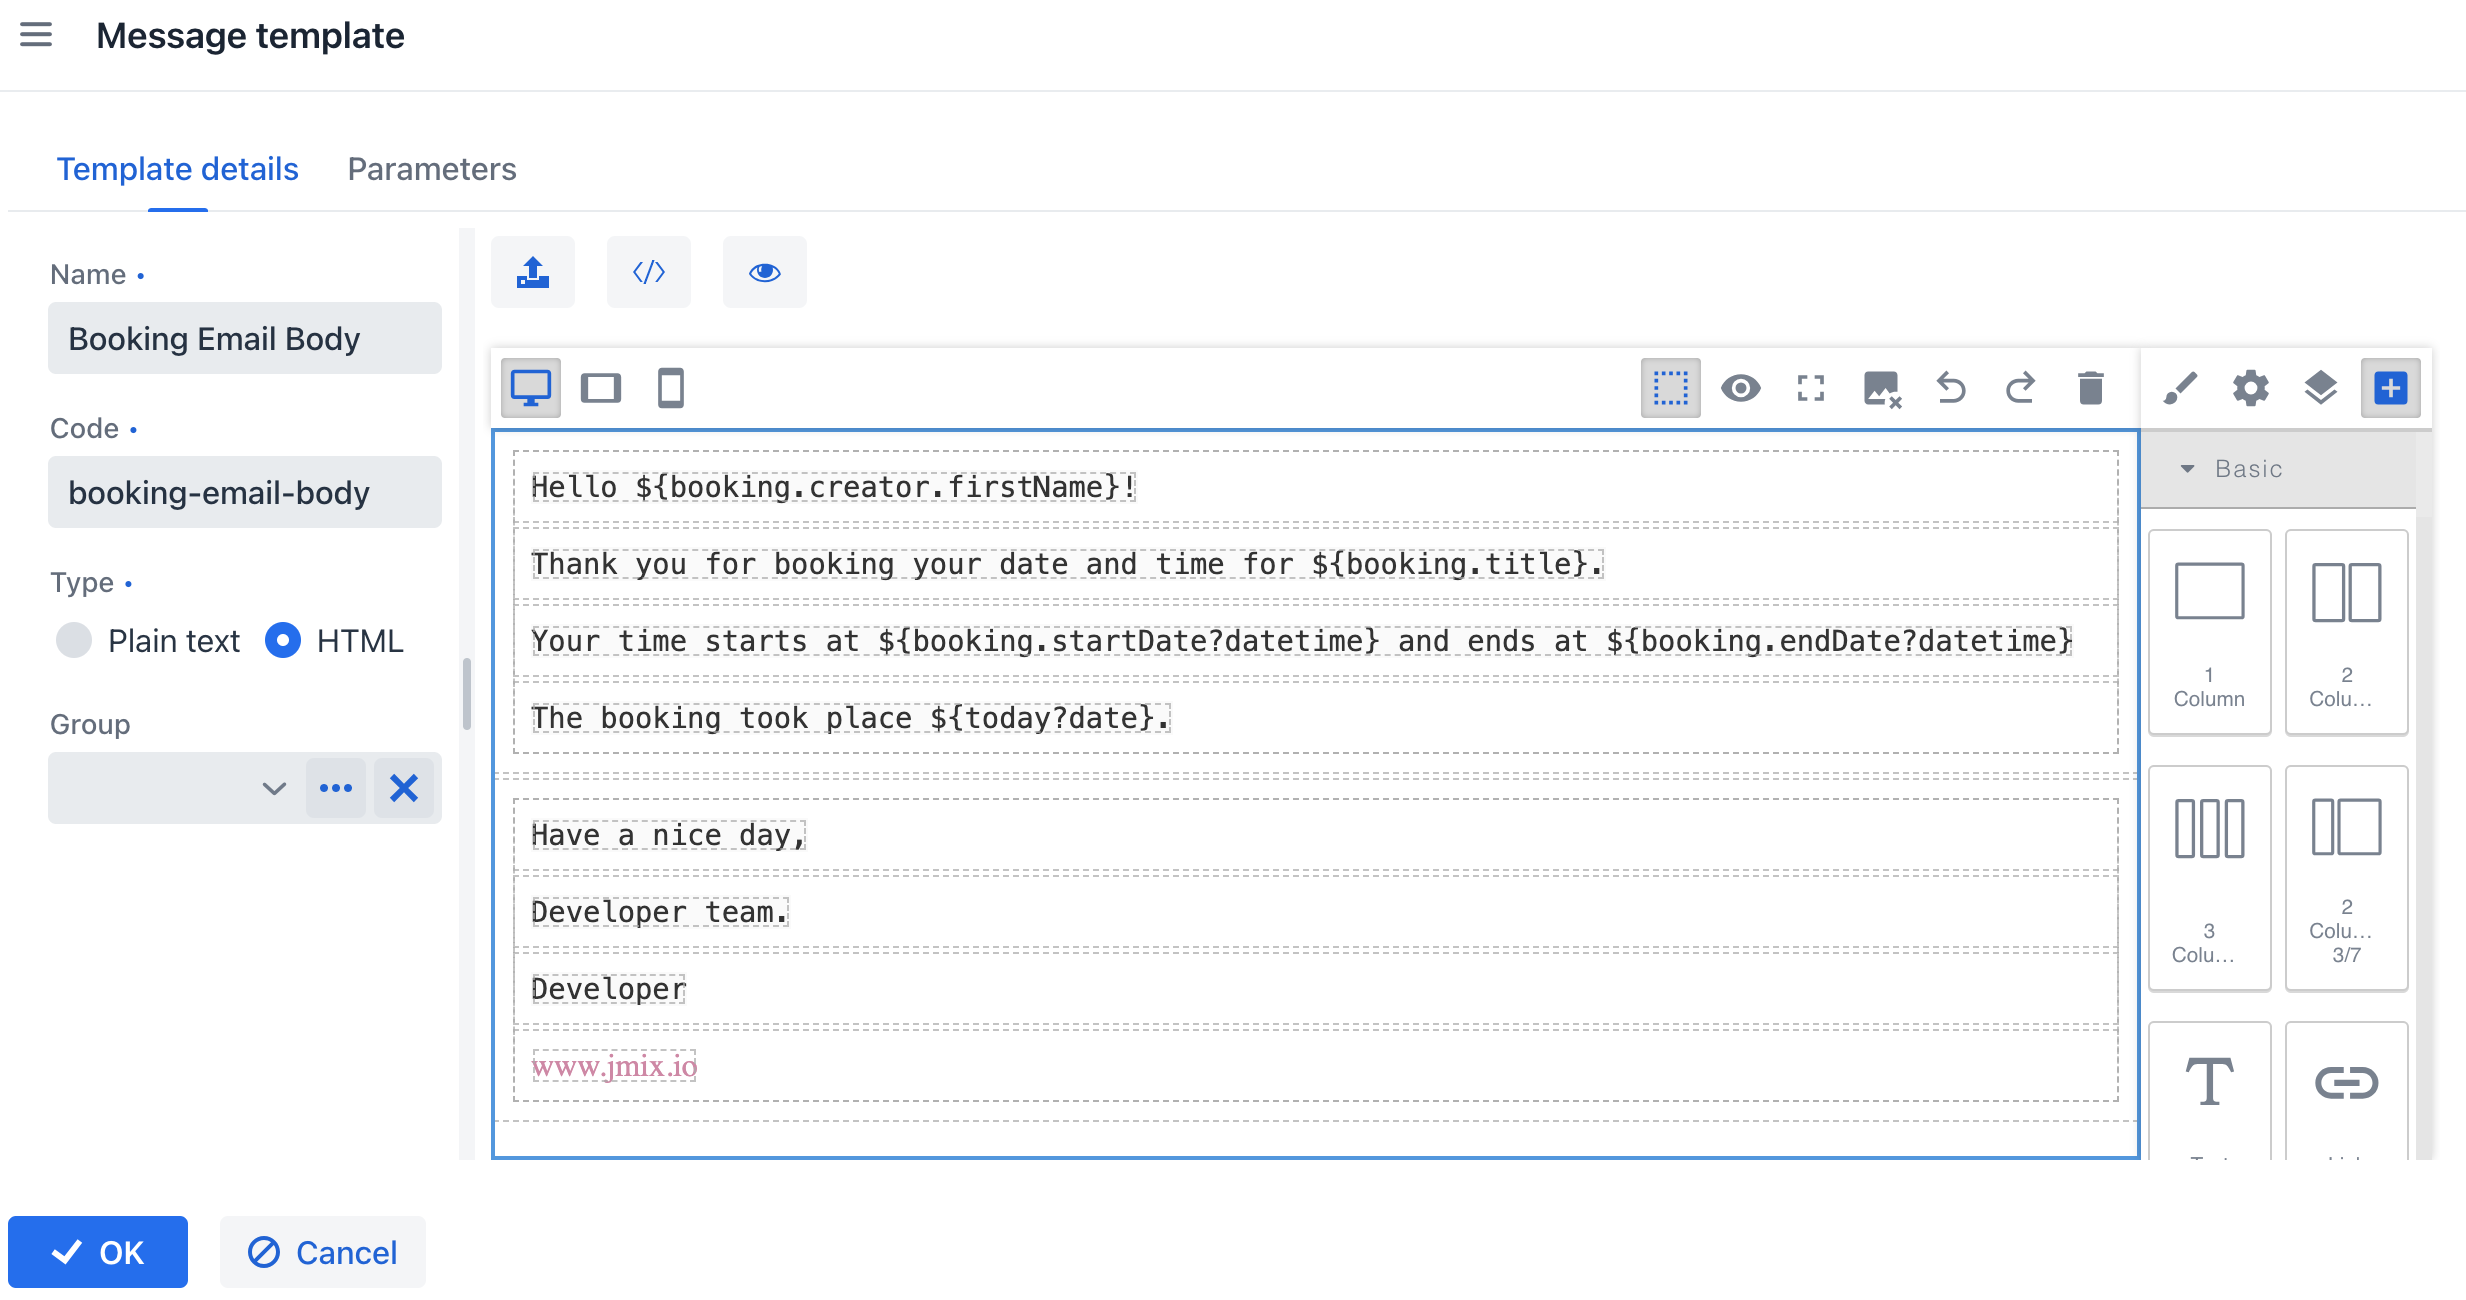
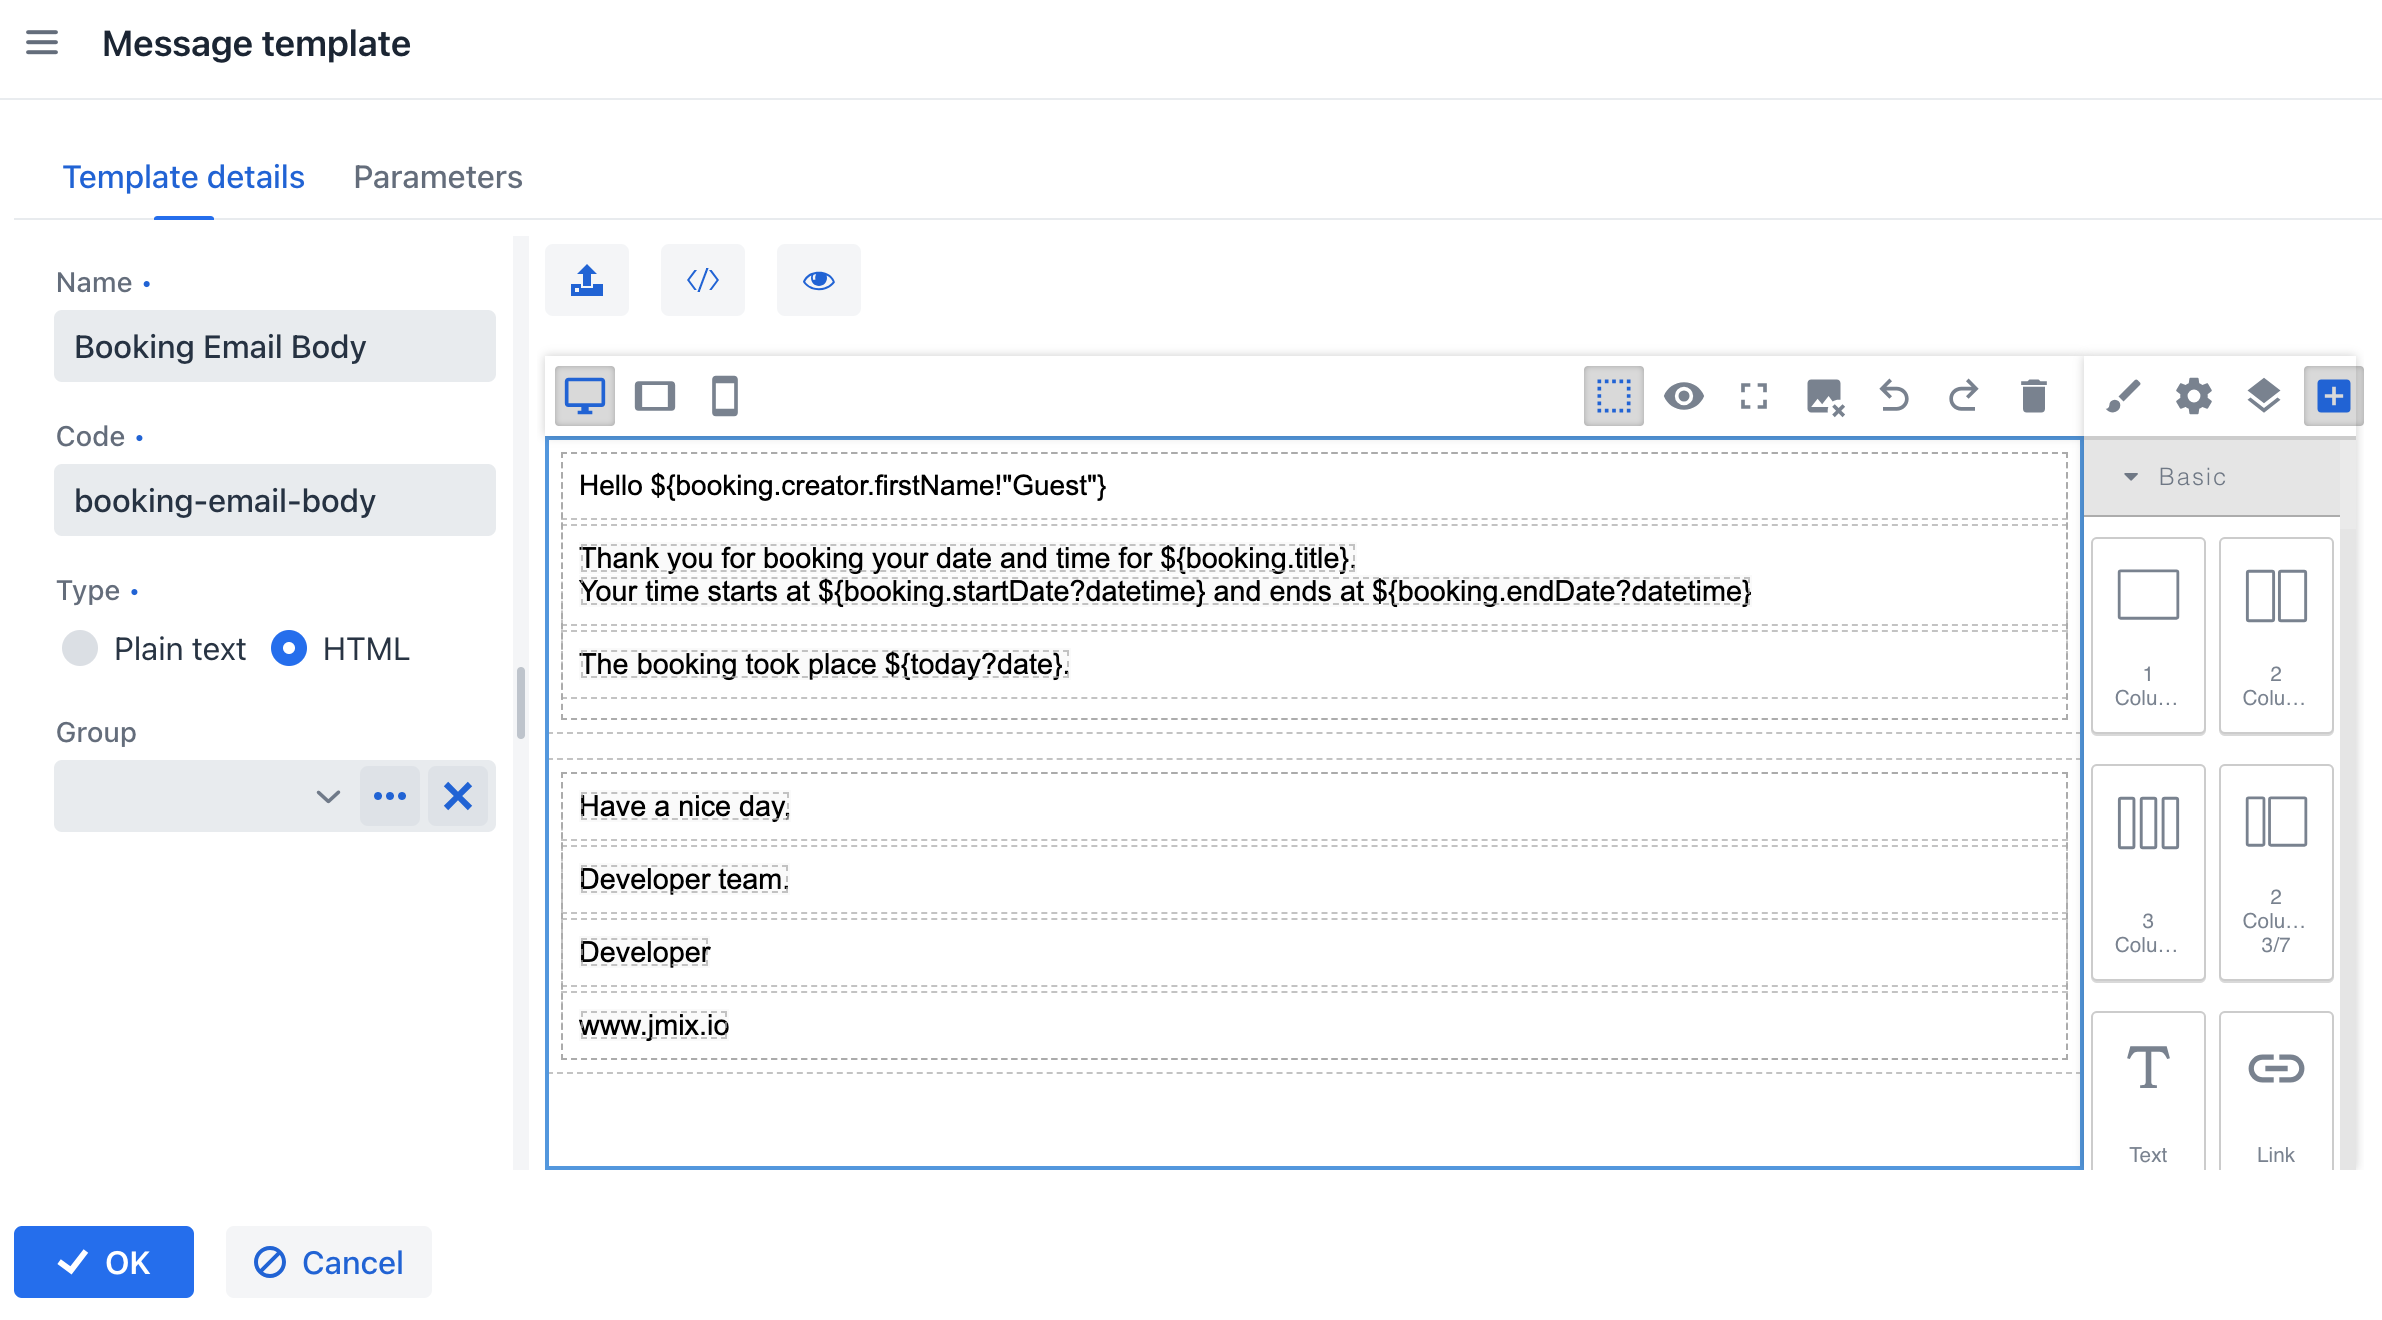
Document the Message Templates add-on #942

diff --git a/content/modules/message-templates/examples/messagetemplates-ex1/src/main/java/com/company/sample/view/booking/BookingListView.java b/content/modules/message-templates/examples/messagetemplates-ex1/src/main/java/com/company/sample/view/booking/BookingListView.java
@@ -32,33 +32,34 @@ public class BookingListView extends StandardListView<Booking> {
     // tag::booking-list-view[]
     @ViewComponent
     private DataGrid<Booking> bookingsDataGrid;
+
     @Autowired
-    private MessageTemplateProperties messageTemplateProperties; // <1>
+    private MessageTemplatesGenerator messageTemplatesGenerator; // <1>
+
     @Autowired
-    private MessageTemplatesGenerator messageTemplatesGenerator; // <2>
+    private Emailer emailer; // <2>
+
     @Autowired
-    private Emailer emailer; // <3>
-    @Autowired
-    private Notifications notifications; // <4>
+    private Notifications notifications; // <3>
 
     @Subscribe("bookingsDataGrid.notifyEmail")
     public void onBookingsDataGridNotifyEmail(final ActionPerformedEvent event) {
         Booking booking = bookingsDataGrid.getSingleSelectedItem();
-        User creator = booking.getCreator(); // <5>
+        User creator = booking.getCreator(); // <4>
 
         String email = creator.getEmail();
         if (email == null) {
-            showNoEmailNotification(creator); // <6>
+            showNoEmailNotification(creator); // <5>
             return;
         }
 
         List<String> messages = messageTemplatesGenerator.generateMultiTemplate()
-                .withTemplateCodes("booking-email-subject", "booking-email-body") // <7>
+                .withTemplateCodes("booking-email-subject", "booking-email-body") // <6>
                 .withParams(
                         Map.of(
                                 "booking", booking,
                                 "today", new Date()
-                        )) // <8>
+                        )) // <7>
                 .generate();
 
         EmailInfo emailInfo = EmailInfoBuilder.create()
@@ -66,15 +67,15 @@ public class BookingListView extends StandardListView<Booking> {
                 .setSubject(messages.get(0))
                 .setBody(messages.get(1))
                 .setBodyContentType("text/html; charset=UTF-8")
-                .build(); // <9>
+                .build(); // <8>
 
         try {
-            emailer.sendEmail(emailInfo); // <10>
+            emailer.sendEmail(emailInfo); // <9>
         } catch (EmailException e) {
             showSendingErrorNotification(email);
         }
 
-        showSendingSuccessNotification(email); // <11>
+        showSendingSuccessNotification(email); // <10>
     }
 
     private void showSendingErrorNotification(String email) {
